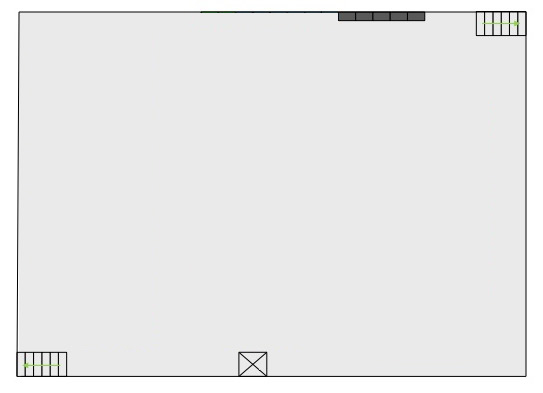
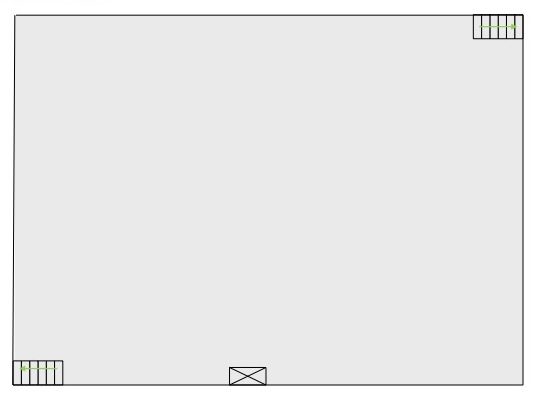
list of maps, finished row numbering closes #8

Changed region(s): [[0.0, 0.0305, 0.9814, 0.9771], [0.0, 0.2137, 0.0595, 0.6412]]

diff --git a/web/maps/law/Basement.html b/web/maps/law/Basement.html
@@ -10,7 +10,7 @@
 }
 
 .main {
-  margin:12px 15px 10px 5px;
+  margin:14px 15px 10px 5px;
   width:540px;
   position:relative;
   float:left;
@@ -69,7 +69,7 @@
 .top4 {
 	border: 1px solid #6a8012;
 	height: 7px;
-	width: 72px;
+	width: 70px;
 }
 
 .bottom4 {
@@ -77,7 +77,7 @@
 	border-left: 1px solid #6a8012;
 	border-bottom: 1px solid #6a8012;
 	height: 7px;
-	width: 72px;
+	width: 70px;
 	margin-bottom:13px;
 }
 
@@ -101,7 +101,7 @@
 }
 
 .shifted2 {
-  margin-left:28px;
+  margin-left:30px;
 }
 
 .top6 {
@@ -143,47 +143,47 @@
         <div id="map1" class="map">
           <div class="main">
             <div class="wall">
-              <span id="row11" class="wall2"></span><span id="row11" class="wall6"></span>
+              <span id="row23" class="wall2"></span><span id="row" class="row23addl wall6"></span>
             </div>
             <div class="clear"></div>
             <div class="column1">
-              <span id="row11" class="top6"></span><span id="row10" class="bottom6"></span>
-              <span id="row11" class="top6"></span><span id="row10" class="bottom6"></span>
+              <span id="row22" class="top6"></span><span id="row21" class="bottom6"></span>
+              <span id="row20" class="top6"></span><span id="row19" class="bottom6"></span>
+              <span id="row18" class="top6"></span><span id="row17" class="bottom6"></span>
+              <span id="row16" class="top6"></span><span id="row15" class="bottom6"></span>
+              <span id="row14" class="top6"></span><span id="row13" class="bottom6"></span>
+              <span id="row12" class="top6"></span><span id="row11" class="bottom6"></span>
+              <span id="row10" class="top6"></span><span id="row9" class="bottom6"></span>
               <span id="row8" class="top6"></span><span id="row7" class="bottom6"></span>
-              <span id="row5" class="top6"></span><span id="row4" class="bottom6"></span>
-              <span id="row11" class="top6"></span><span id="row10" class="bottom6"></span>
-              <span id="row5" class="top6"></span><span id="row4" class="bottom6"></span>
-              <span id="row11" class="top6"></span><span id="row10" class="bottom6"></span>
-              <span id="row2" class="top6"></span><span id="row1" class="bottom6"></span>
-              <span id="row11" class="top5 shifted"></span><span id="row10" class="bottom5 shifted"></span>
-              <span id="row21" class="top4 shifted2"></span><span id="row22" class="bottom4 shifted2"></span>
-              <span id="row21" class="top4 shifted2">
+              <span id="row6" class="top5 shifted"></span><span id="row5" class="bottom5 shifted"></span>
+              <span id="row4" class="top4 shifted2"></span><span id="row3" class="bottom4 shifted2"></span>
+              <span id="row2" class="top4 shifted2"></span><span id="row1" class="bottom4 shifted2"></span>
             </div>
             <div class="column2">
-              <span id="row2" class="top7"></span><span id="row1" class="bottom7"></span>
-              <span id="row15" class="top7"></span><span id="row16" class="bottom7"></span>
-              <span id="row21" class="top7"></span><span id="row22" class="bottom7"></span>
-              <span id="row15" class="top5 shifted"></span><span id="row16" class="bottom5 shifted"></span>
-              <span id="row21" class="top7"></span><span id="row22" class="bottom7"></span>
-              <span id="row21" class="top7"></span><span id="row22" class="bottom7"></span>
-              <span id="row15" class="top5 shifted"></span><span id="row16" class="bottom5 shifted"></span>
-              <span id="row21" class="top7"></span><span id="row22" class="bottom7"></span>
-              <span id="row15" class="top7"></span><span id="row16" class="bottom7"></span>
-              <span id="row15" class="top7"></span><span id="row16" class="bottom7"></span>
-              <span id="row21" class="top4 shifted2">
+              <span id="row24" class="top7"></span><span id="row25" class="bottom7"></span>
+              <span id="row26" class="top7"></span><span id="row27" class="bottom7"></span>
+              <span id="row28" class="top7"></span><span id="row29" class="bottom7"></span>
+              <span id="row30" class="top5 shifted"></span><span id="row31" class="bottom5 shifted"></span>
+              <span id="row32" class="top7"></span><span id="row33" class="bottom7"></span>
+              <span id="row34" class="top7"></span><span id="row35" class="bottom7"></span>
+              <span id="row36" class="top5 shifted"></span><span id="row37" class="bottom5 shifted"></span>
+              <span id="row38" class="top7"></span><span id="row39" class="bottom7"></span>
+              <span id="row40" class="top7"></span><span id="row41" class="bottom7"></span>
+              <span id="row42" class="top7"></span><span id="row43" class="bottom7"></span>
+              <span id="row44" class="top4 shifted2"></span><span id="row45" class="bottom4 shifted2"></span>
             </div>
             <div class="column3">
-              <span id="row21" class="top3"></span><span id="row22" class="bottom3"></span>
-              <span id="row21" class="top5"></span><span id="row22" class="bottom5"></span>
-              <span id="row15" class="top6"></span><span id="row16" class="bottom6"></span>
-              <span id="row21" class="top6"></span><span id="row22" class="bottom6"></span>
-              <span id="row21" class="top6"></span><span id="row22" class="bottom6"></span>
-              <span id="row15" class="top6"></span><span id="row16" class="bottom6"></span>
-              <span id="row21" class="top6"></span><span id="row22" class="bottom6"></span>
-              <span id="row21" class="top6"></span><span id="row22" class="bottom6"></span>
-              <span id="row21" class="top6"></span><span id="row22" class="bottom6"></span>
-              <span id="row15" class="top5"></span><span id="row16" class="bottom5"></span>
-              <span id="row15" class="top5"></span><span id="row16" class="bottom5"></span>
+              <span id="row47" class="top3"></span><span id="row48" class="bottom3"></span>
+              <span id="row49" class="top5"></span><span id="row50" class="bottom5"></span>
+              <span id="row51" class="top6"></span><span id="row52" class="bottom6"></span>
+              <span id="row53" class="top6"></span><span id="row54" class="bottom6"></span>
+              <span id="row55" class="top6"></span><span id="row56" class="bottom6"></span>
+              <span id="row57" class="top6"></span><span id="row58" class="bottom6"></span>
+              <span id="row59" class="top6"></span><span id="row60" class="bottom6"></span>
+              <span id="row61" class="top6"></span><span id="row62" class="bottom6"></span>
+              <span id="row63" class="top6"></span><span id="row64" class="bottom6"></span>
+              <span id="row65" class="top5"></span><span id="row66" class="bottom5"></span>
+              <span id="row67" class="top5"></span><span id="row68" class="bottom5"></span>
             </div>
        		</div> 
   </div>       		

diff --git a/web/admin/maps.html b/web/admin/maps.html
@@ -1,0 +1,121 @@
+<?php
+// An array of allowed users and their passwords
+$users = array(
+  $user => $password
+);
+
+// If there's no Authentication header, exit
+if (!isset($_SERVER['PHP_AUTH_USER'])) {
+  header('HTTP/1.1 401 Unauthorized');
+  header('WWW-Authenticate: Basic realm="Map It admin"');
+  exit('This page requires authentication');
+}
+
+// If the user name doesn't exist, exit
+if (!isset($users[$_SERVER['PHP_AUTH_USER']])) {
+  header('HTTP/1.1 401 Unauthorized');
+  header('WWW-Authenticate: Basic realm="Map It admin"');
+  exit('Unauthorized!');
+}
+
+// Is the password doesn't match the username, exit
+if ($users[$_SERVER['PHP_AUTH_USER']] != $_SERVER['PHP_AUTH_PW'])
+{
+  header('HTTP/1.1 401 Unauthorized');
+  header('WWW-Authenticate: Basic realm="Map It admin"');
+  exit('Unauthorized!');
+}
+
+?>
+<!DOCTYPE html>
+<head>
+  <meta charset="utf-8">
+  <meta http-equiv="X-UA-Compatible" content="IE=edge,chrome=1">
+  <meta name="description" content="">
+  <meta name="viewport" content="width=device-width">
+  <link rel="icon" href="/map-it/images/favicon.png" type="image/x-icon" />
+		
+		<title>Map It Maps</title>
+		
+		<link href="/map-it/css/bootstrap.css" rel="stylesheet">
+		<style type="text/css">
+      body {
+        padding-top: 25px;
+      }
+    </style>
+
+		<script>
+		  var www = '<?php echo $www ?>';
+		</script>
+		<script type="text/javascript" src="http://ajax.googleapis.com/ajax/libs/jquery/1.7.2/jquery.min.js"></script>
+
+	</head>
+	<body>
+	  <div class="container-fluid">
+      <div class="row-fluid">
+        <div class="span2">
+          <ul class="nav nav-tabs nav-stacked">
+            <li><a href="/map-it/admin">Map It Admin</a></li>
+            <li><a href="/map-it/admin/data">Data Editing</a></li>
+            <li><a href="/map-it/admin/check">Barcode  Check</a></li>
+            <li class="active"><a href="/map-it/admin/maps">Maps</a></li>
+            <li><a href="/map-it/admin/app">iOS App</a></li>
+          </ul>
+        </div>
+        <div class="span6 offset1">
+          <h3>Map It Maps</h3>
+          <h4>Lamont</h4>
+          <ul class="unstyled">
+            <li><a href="/map-it/map/lam/D/7" target="_blank">Lamont D</a></li>
+            <li><a href="/map-it/map/lam/B/7" target="_blank">Lamont B</a></li>
+            <li><a href="/map-it/map/lam/A/7" target="_blank">Lamont A</a></li>
+            <li><a href="/map-it/map/lam/1/7" target="_blank">Lamont 1</a></li>
+            <li><a href="/map-it/map/lam/2/7" target="_blank">Lamont 2</a></li>
+            <li><a href="/map-it/map/lam/3/7" target="_blank">Lamont 3</a></li>
+          </ul>
+          <h4>Law</h4>
+          <ul class="unstyled">
+            <li><a href="/map-it/map/law/Basement/7" target="_blank">Langdell Basement</a></li>
+            <li><a href="/map-it/map/law/1/7" target="_blank">Langdell 1</a></li>
+            <li><a href="/map-it/map/law/2/7" target="_blank">Langdell 2</a></li>
+            <li><a href="/map-it/map/law/3/7" target="_blank">Langdell 3</a></li>
+            <li><a href="/map-it/map/law/4Bridge/7" target="_blank">Langdell 4 Bridge</a></li>
+            <li><a href="/map-it/map/law/4North/7" target="_blank">Langdell 4 North</a></li>
+            <li><a href="/map-it/map/law/4South/7" target="_blank">Langdell 4 South</a></li>
+            <li><a href="/map-it/map/law/LewisBasement/7" target="_blank">Lewis Basement</a></li>
+            <li><a href="/map-it/map/law/Lewis1/7" target="_blank">Lewis 1</a></li>
+            <li><a href="/map-it/map/law/Lewis3/7" target="_blank">Lewis 3</a></li>
+            <li><a href="/map-it/map/law/Lewis4/7" target="_blank">Lewis 4</a></li>
+          </ul>
+          <h4>Widener</h4>
+          <ul class="unstyled">
+            <li><a href="/map-it/map/wid/DW/7" target="_blank">Widener D West</a></li>
+            <li><a href="/map-it/map/wid/DE/7" target="_blank">Widener D East</a></li>
+            <li><a href="/map-it/map/wid/CW/7" target="_blank">Widener C West</a></li>
+            <li><a href="/map-it/map/wid/CE/7" target="_blank">Widener C East</a></li>
+            <li><a href="/map-it/map/wid/BW/7" target="_blank">Widener B West</a></li>
+            <li><a href="/map-it/map/wid/BE/7" target="_blank">Widener B East</a></li>
+            <li><a href="/map-it/map/wid/AW/7" target="_blank">Widener A West</a></li>
+            <li><a href="/map-it/map/wid/AE/7" target="_blank">Widener A East</a></li>
+            <li><a href="/map-it/map/wid/1W/7" target="_blank">Widener 1 West</a></li>
+            <li><a href="/map-it/map/wid/1E/7" target="_blank">Widener 1 East</a></li>
+            <li><a href="/map-it/map/wid/2W/7" target="_blank">Widener 2 West</a></li>
+            <li><a href="/map-it/map/wid/2E/7" target="_blank">Widener 2 East</a></li>
+            <li><a href="/map-it/map/wid/3W/7" target="_blank">Widener 3 West</a></li>
+            <li><a href="/map-it/map/wid/3E/7" target="_blank">Widener 3 East</a></li>
+            <li><a href="/map-it/map/wid/4W/7" target="_blank">Widener 4 West</a></li>
+            <li><a href="/map-it/map/wid/4E/7" target="_blank">Widener 4 East</a></li>
+            <li><a href="/map-it/map/wid/5W/7" target="_blank">Widener 5 West</a></li>
+            <li><a href="/map-it/map/wid/5E/7" target="_blank">Widener 5 East</a></li>
+            <li><a href="/map-it/map/wid/6W/7" target="_blank">Widener 5 West</a></li>
+            <li><a href="/map-it/map/wid/6E/7" target="_blank">Widener 5 East</a></li>
+            <li><a href="/map-it/map/wid/DW/7" target="_blank">Widener D West</a></li>
+            <li><a href="/map-it/map/wid/DE/7" target="_blank">Widener D East</a></li>
+            <li><a href="/map-it/map/wid/P2/7" target="_blank">Widener Pusey 2</a></li>
+            <li><a href="/map-it/map/wid/P3/7" target="_blank">Widener Pusey 3</a></li>
+          </ul>
+        </div>
+      </div>
+    </div>
+	</body>
+</html>

diff --git a/web/admin/app.html b/web/admin/app.html
@@ -55,6 +55,7 @@ if ($users[$_SERVER['PHP_AUTH_USER']] != $_SERVER['PHP_AUTH_PW'])
             <li><a href="/map-it/admin">Map It Admin</a></li>
             <li><a href="/map-it/admin/data">Data Editing</a></li>
             <li><a href="/map-it/admin/check">Barcode  Check</a></li>
+            <li><a href="/map-it/admin/maps">Maps</a></li>
             <li class="active"><a href="/map-it/admin/app">iOS App</a></li>
           </ul>
         </div>

diff --git a/web/admin/check.html b/web/admin/check.html
@@ -59,6 +59,7 @@ if ($users[$_SERVER['PHP_AUTH_USER']] != $_SERVER['PHP_AUTH_PW'])
             <li><a href="/map-it/admin">Map It Admin</a></li>
             <li><a href="/map-it/admin/data">Data Editing</a></li>
             <li class="active"><a href="/map-it/admin/check">Barcode  Check</a></li>
+            <li><a href="/map-it/admin/maps">Maps</a></li>
             <li><a href="/map-it/admin/app">iOS App</a></li>
           </ul>
         </div>

diff --git a/web/admin/data.html b/web/admin/data.html
@@ -60,6 +60,7 @@ if ($users[$_SERVER['PHP_AUTH_USER']] != $_SERVER['PHP_AUTH_PW'])
           <li><a href="/map-it/admin">Map It Admin</a></li>
           <li class="active"><a href="/map-it/admin/data">Data Editing</a></li>
           <li><a href="/map-it/admin/check">Barcode  Check</a></li>
+          <li><a href="/map-it/admin/maps">Maps</a></li>
           <li><a href="/map-it/admin/app">iOS App</a></li>
         </ul>
       </div>

diff --git a/index.php b/index.php
@@ -121,6 +121,15 @@ $f3->route('GET /admin/check', function($f3) {
     echo $view->render('web/admin/check.html');
 });
 
+$f3->route('GET /admin/maps', function($f3) {
+    $f3->set('key',$f3->get('map_it_key'));
+    $f3->set('user',$f3->get('ADMIN_USER'));
+    $f3->set('password',$f3->get('ADMIN_PASSWORD'));
+    $f3->set('www',$f3->get('MAP_IT_HOME'));
+    $view=new View;
+    echo $view->render('web/admin/maps.html');
+});
+
 $f3->run();
 
 ?>
